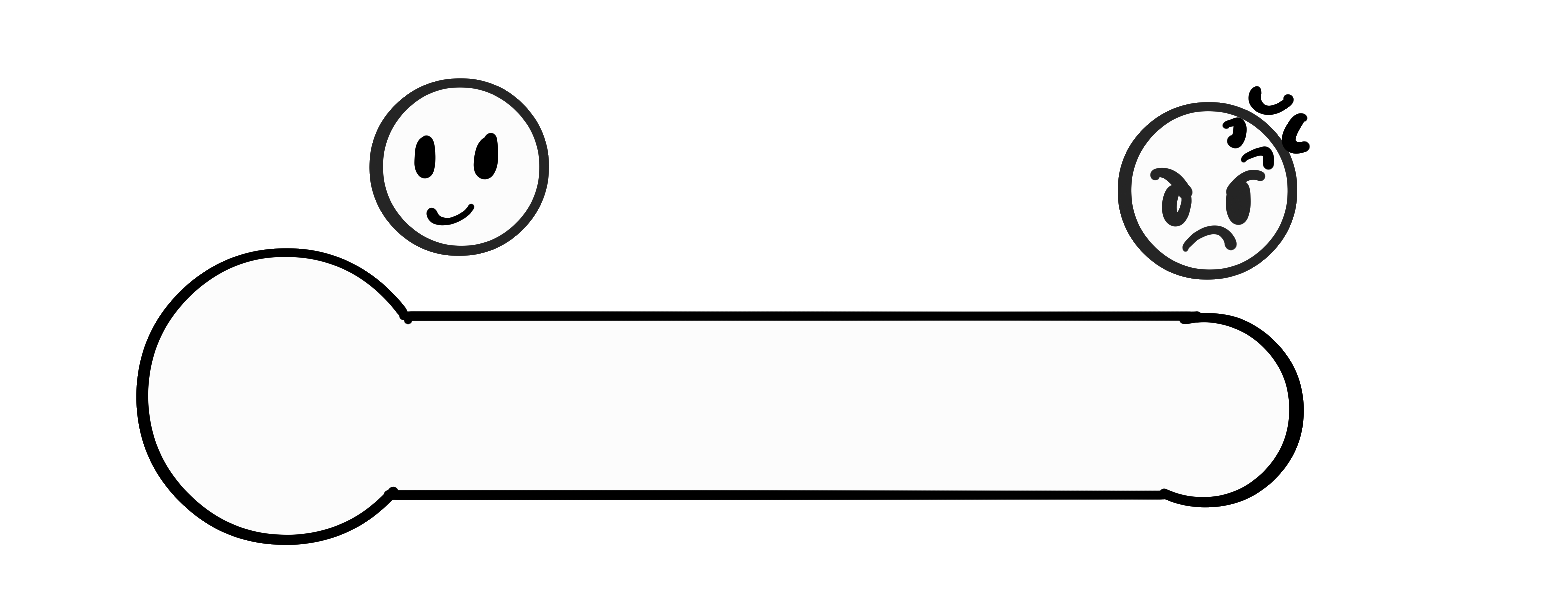
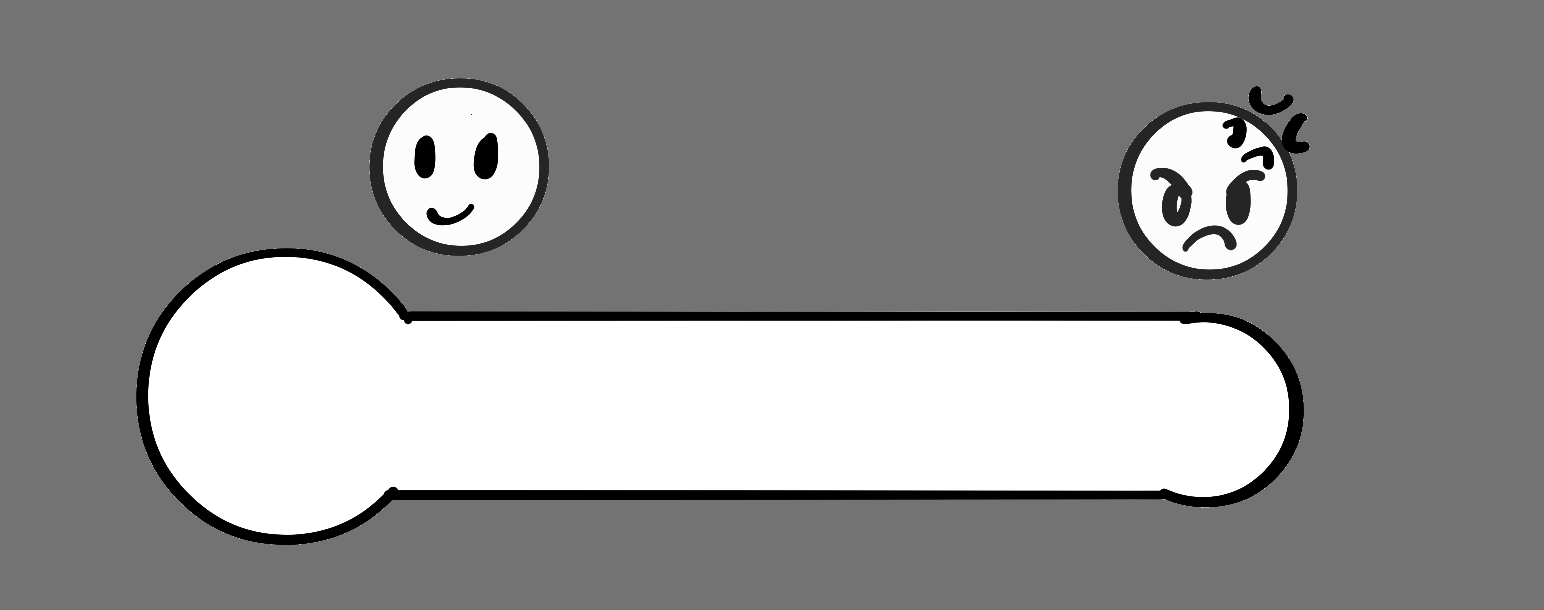
bar agacement2

diff --git a/AngerBar.py b/AngerBar.py
@@ -9,65 +9,43 @@ class AngerBar:
         self.max_value = max_value
         self.current_value = 0
         
-        try:
-            self.background_sprite = arcade.Sprite("assets/AgaceBar.png")
-            self.background_sprite.width = width
-            self.background_sprite.height = height
-            self.background_sprite.center_x = x + width // 2
-            self.background_sprite.center_y = y + height // 2
-            self.image_loaded = True
-            print("Image AgaceBar.png chargée avec succès")
-        except Exception as e:
-            print(f"Erreur lors du chargement de l'image: {e}")
-            self.image_loaded = False
-            self.background_sprite = None
+        self.background_sprite = arcade.Sprite("assets/AgaceBar.png")
+        self.background_sprite.width = width
+        self.background_sprite.height = height
+        self.background_sprite.center_x = x + width // 2
+        self.background_sprite.center_y = y + height // 2
+        self.image_loaded = True
 
         if self.background_sprite:
             self.background_list = arcade.SpriteList()
             self.background_list.append(self.background_sprite)
         
     def draw(self):
-        self.background_list.draw()
-        
         fill_percentage = self.current_value / self.max_value
-        
+
         if fill_percentage > 0:
-            margin_left = 10
-            margin_right = 50
-            available_width = self.width - margin_left - margin_right
-            fill_width = fill_percentage * available_width
-            
-            bar_height = (self.y + self.height - 20 - 60) - (self.y + 20)
-            bar_radius = bar_height // 2
-            circle_center_x = self.x + margin_left + bar_radius
-            circle_center_y = self.y + 20 + bar_radius
-            
-            if fill_width > 0:
-                if fill_width >= bar_radius * 2:
-                    arcade.draw_circle_filled(
-                        circle_center_x,
-                        circle_center_y,
-                        bar_radius,
-                        arcade.color.BLACK
-                    )
-                    
-                    remaining_width = fill_width - (bar_radius * 2)
-                    if remaining_width > 0:
-                        arcade.draw_lrbt_rectangle_filled(
-                            circle_center_x + bar_radius,
-                            circle_center_x + bar_radius + remaining_width,
-                            self.y + 20,
-                            self.y + self.height - 20 - 60,
-                            arcade.color.BLACK
-                        )
-                else:
-                    arcade.draw_lrbt_rectangle_filled(
-                        self.x + margin_left,
-                        self.x + margin_left + fill_width,
-                        self.y + 20,
-                        self.y + self.height - 20 - 60,
-                        arcade.color.BLACK
-                    )
+            fill_width = fill_percentage * self.width
+
+            left = self.x
+            right = self.x + fill_width
+            bottom = self.y
+            top = self.y + self.height
+
+            arcade.draw_lrbt_rectangle_filled(
+                left, right, bottom, top, arcade.color.WHITE
+            )
+
+        if self.image_loaded and self.background_sprite:
+            self.background_list.draw()
+        else:
+            arcade.draw_rectangle_outline(
+                self.x + self.width // 2,
+                self.y + self.height // 2,
+                self.width,
+                self.height,
+                arcade.color.BLACK,
+                3
+            )
     
     def set_value(self, value):
         """Définir une valeur spécifique"""
@@ -79,24 +57,20 @@ class AngerBar:
         print(f"Barre d'agacement: {self.current_value}/{self.max_value} ({self.get_percentage():.1f}%)")
         
         if self.is_full():
-            print("BARRE D'AGACEMENT PLEINE")
+            print("BARRE D'AGACEMENT PLEINE ! Le joueur est au maximum de sa frustration !")
     
     def decrease(self, amount=5):
         """Diminuer la valeur"""
         self.set_value(self.current_value - amount)
     
     def get_percentage(self):
-        """Obtenir le pourcentage de remplissage"""
         return (self.current_value / self.max_value) * 100
     
     def is_full(self):
-        """Vérifier si la barre est pleine"""
         return self.current_value >= self.max_value
     
     def is_empty(self):
-        """Vérifier si la barre est vide"""
         return self.current_value <= 0
     
     def reset(self):
-        """Remettre la barre à zéro"""
         self.current_value = 0
